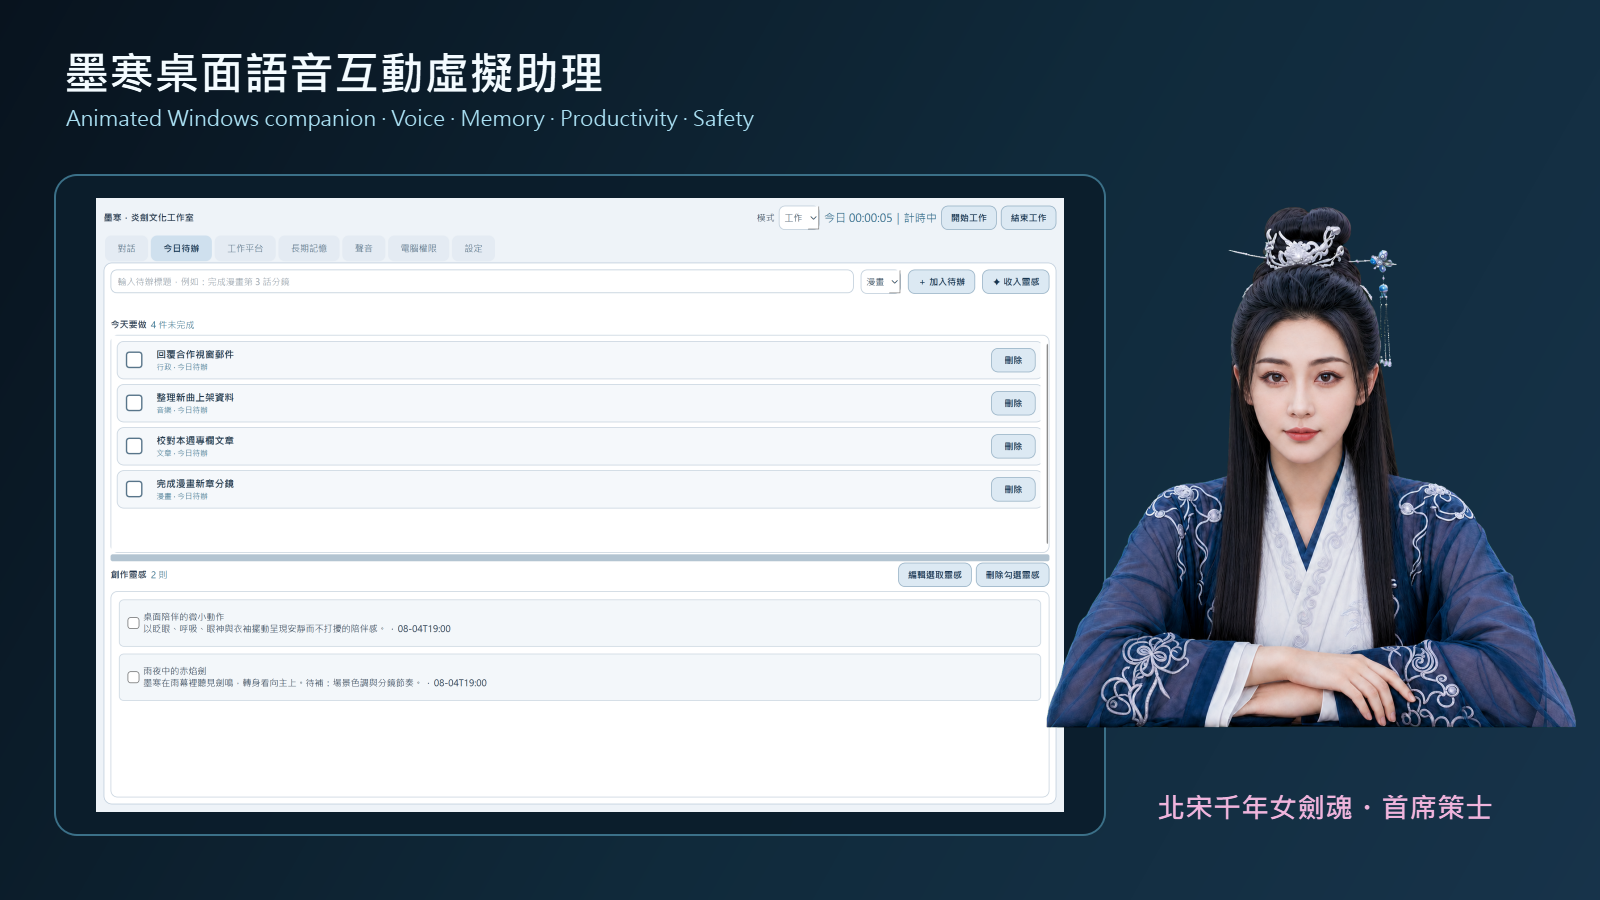
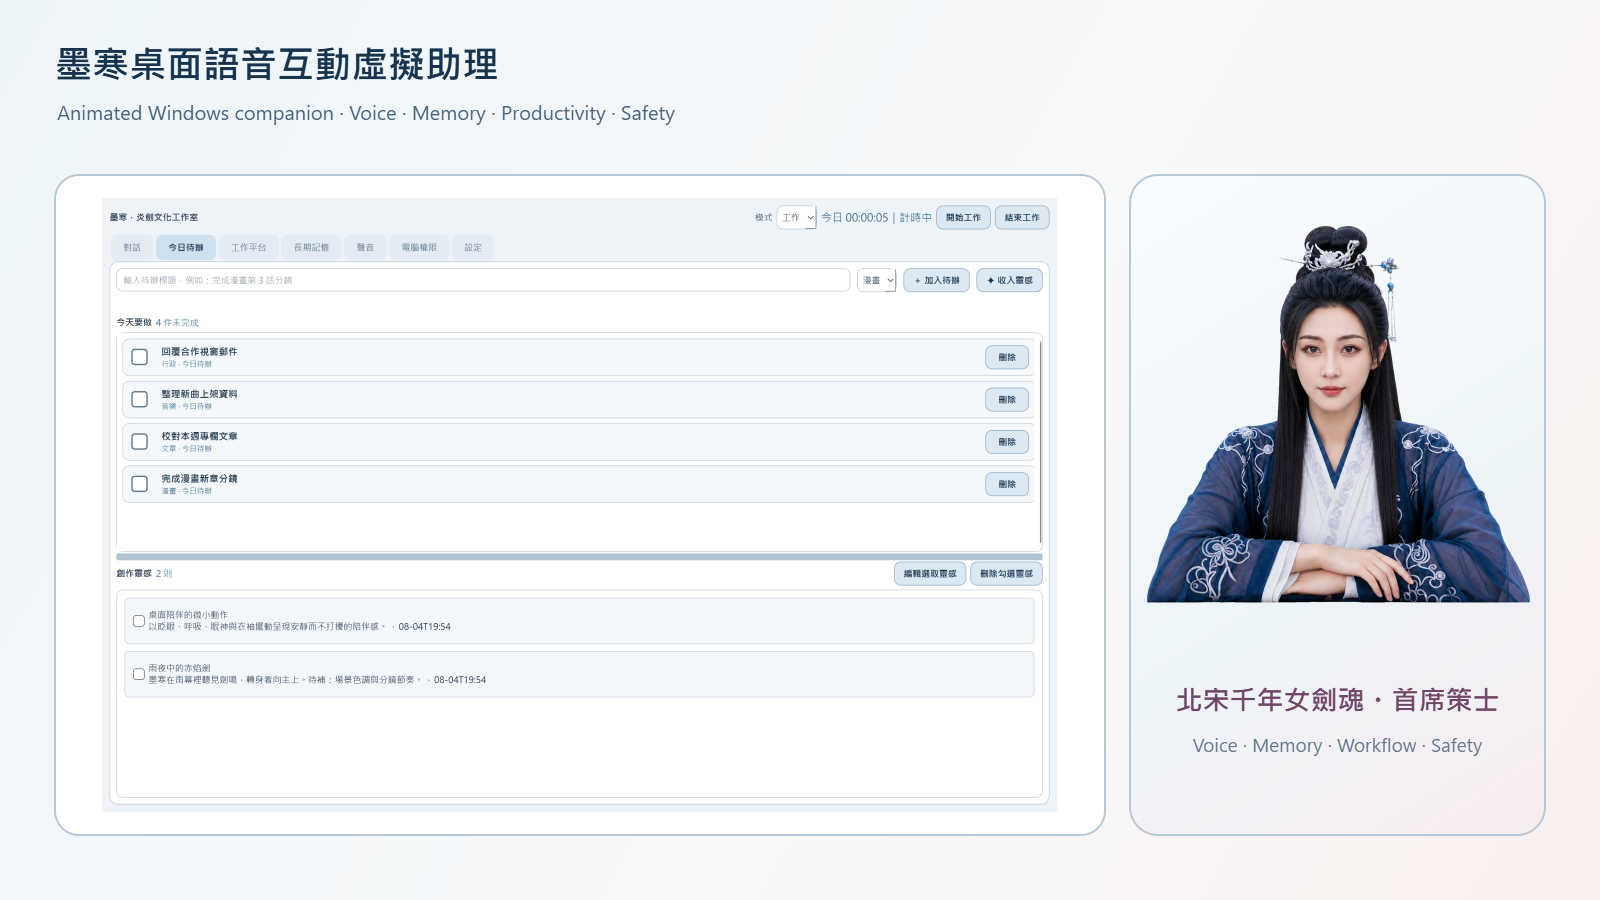
Align hero media with bright RC1 theme

diff --git a/tools/capture_readme_media.py b/tools/capture_readme_media.py
@@ -158,23 +158,32 @@ def compose_hero(
     output: Path,
 ) -> None:
     canvas = QImage(1600, 900, QImage.Format_ARGB32)
-    canvas.fill(QColor("#08141f"))
+    canvas.fill(QColor("#eef3f8"))
     painter = QPainter(canvas)
     painter.setRenderHint(QPainter.Antialiasing)
     gradient = QLinearGradient(0, 0, 1600, 900)
-    gradient.setColorAt(0.0, QColor("#08131e"))
-    gradient.setColorAt(0.55, QColor("#102a3b"))
-    gradient.setColorAt(1.0, QColor("#17334a"))
+    gradient.setColorAt(0.0, QColor("#edf4f8"))
+    gradient.setColorAt(0.58, QColor("#f8f9fa"))
+    gradient.setColorAt(1.0, QColor("#f8efed"))
     painter.fillRect(canvas.rect(), gradient)
-    draw_cover_text(
-        painter,
-        "墨寒桌面語音互動虛擬助理",
+    painter.setPen(QColor("#17344f"))
+    painter.setFont(QFont("Microsoft JhengHei UI", 28, QFont.Bold))
+    painter.drawText(QRect(55, 40, 1000, 54), "墨寒桌面語音互動虛擬助理")
+    painter.setPen(QColor("#48647a"))
+    painter.setFont(QFont("Segoe UI", 15))
+    painter.drawText(
+        QRect(57, 98, 1040, 34),
         "Animated Windows companion · Voice · Memory · Productivity · Safety",
-        1600,
     )
 
     panel = QRect(55, 175, 1050, 660)
-    draw_rounded_panel(painter, panel, QColor(11, 29, 43, 236))
+    draw_rounded_panel(
+        painter,
+        panel,
+        QColor("#ffffff"),
+        QColor("#b6c8d6"),
+        24,
+    )
     dash = scaled_inside(dashboard, QSize(1006, 614))
     painter.drawImage(
         QPoint(panel.x() + (panel.width() - dash.width()) // 2,
@@ -182,11 +191,39 @@ def compose_hero(
         dash,
     )
 
-    char = scaled_inside(character, QSize(560, 720))
-    painter.drawImage(QPoint(1030, 175), char)
-    painter.setPen(QColor("#efb4dc"))
-    painter.setFont(QFont("Microsoft JhengHei UI", 21, QFont.Bold))
-    painter.drawText(QRect(1120, 785, 410, 44), Qt.AlignCenter, "北宋千年女劍魂・首席策士")
+    character_panel = QRect(1130, 175, 415, 660)
+    character_gradient = QLinearGradient(
+        character_panel.topLeft(), character_panel.bottomRight()
+    )
+    character_gradient.setColorAt(0.0, QColor("#fafdff"))
+    character_gradient.setColorAt(0.58, QColor("#edf4f8"))
+    character_gradient.setColorAt(1.0, QColor("#f8ecef"))
+    painter.setPen(QPen(QColor("#b6c8d6"), 2))
+    painter.setBrush(character_gradient)
+    painter.drawRoundedRect(character_panel, 28, 28)
+    char = scaled_inside(character, QSize(405, 575))
+    painter.drawImage(
+        QPoint(
+            character_panel.x()
+            + (character_panel.width() - char.width()) // 2,
+            character_panel.y() + 28,
+        ),
+        char,
+    )
+    painter.setPen(QColor("#6f4667"))
+    painter.setFont(QFont("Microsoft JhengHei UI", 20, QFont.Bold))
+    painter.drawText(
+        QRect(1145, 678, 385, 44),
+        Qt.AlignCenter,
+        "北宋千年女劍魂・首席策士",
+    )
+    painter.setPen(QColor("#62788a"))
+    painter.setFont(QFont("Segoe UI", 14))
+    painter.drawText(
+        QRect(1145, 728, 385, 32),
+        Qt.AlignCenter,
+        "Voice · Memory · Workflow · Safety",
+    )
     painter.end()
     output.parent.mkdir(parents=True, exist_ok=True)
     if not canvas.save(str(output)):
